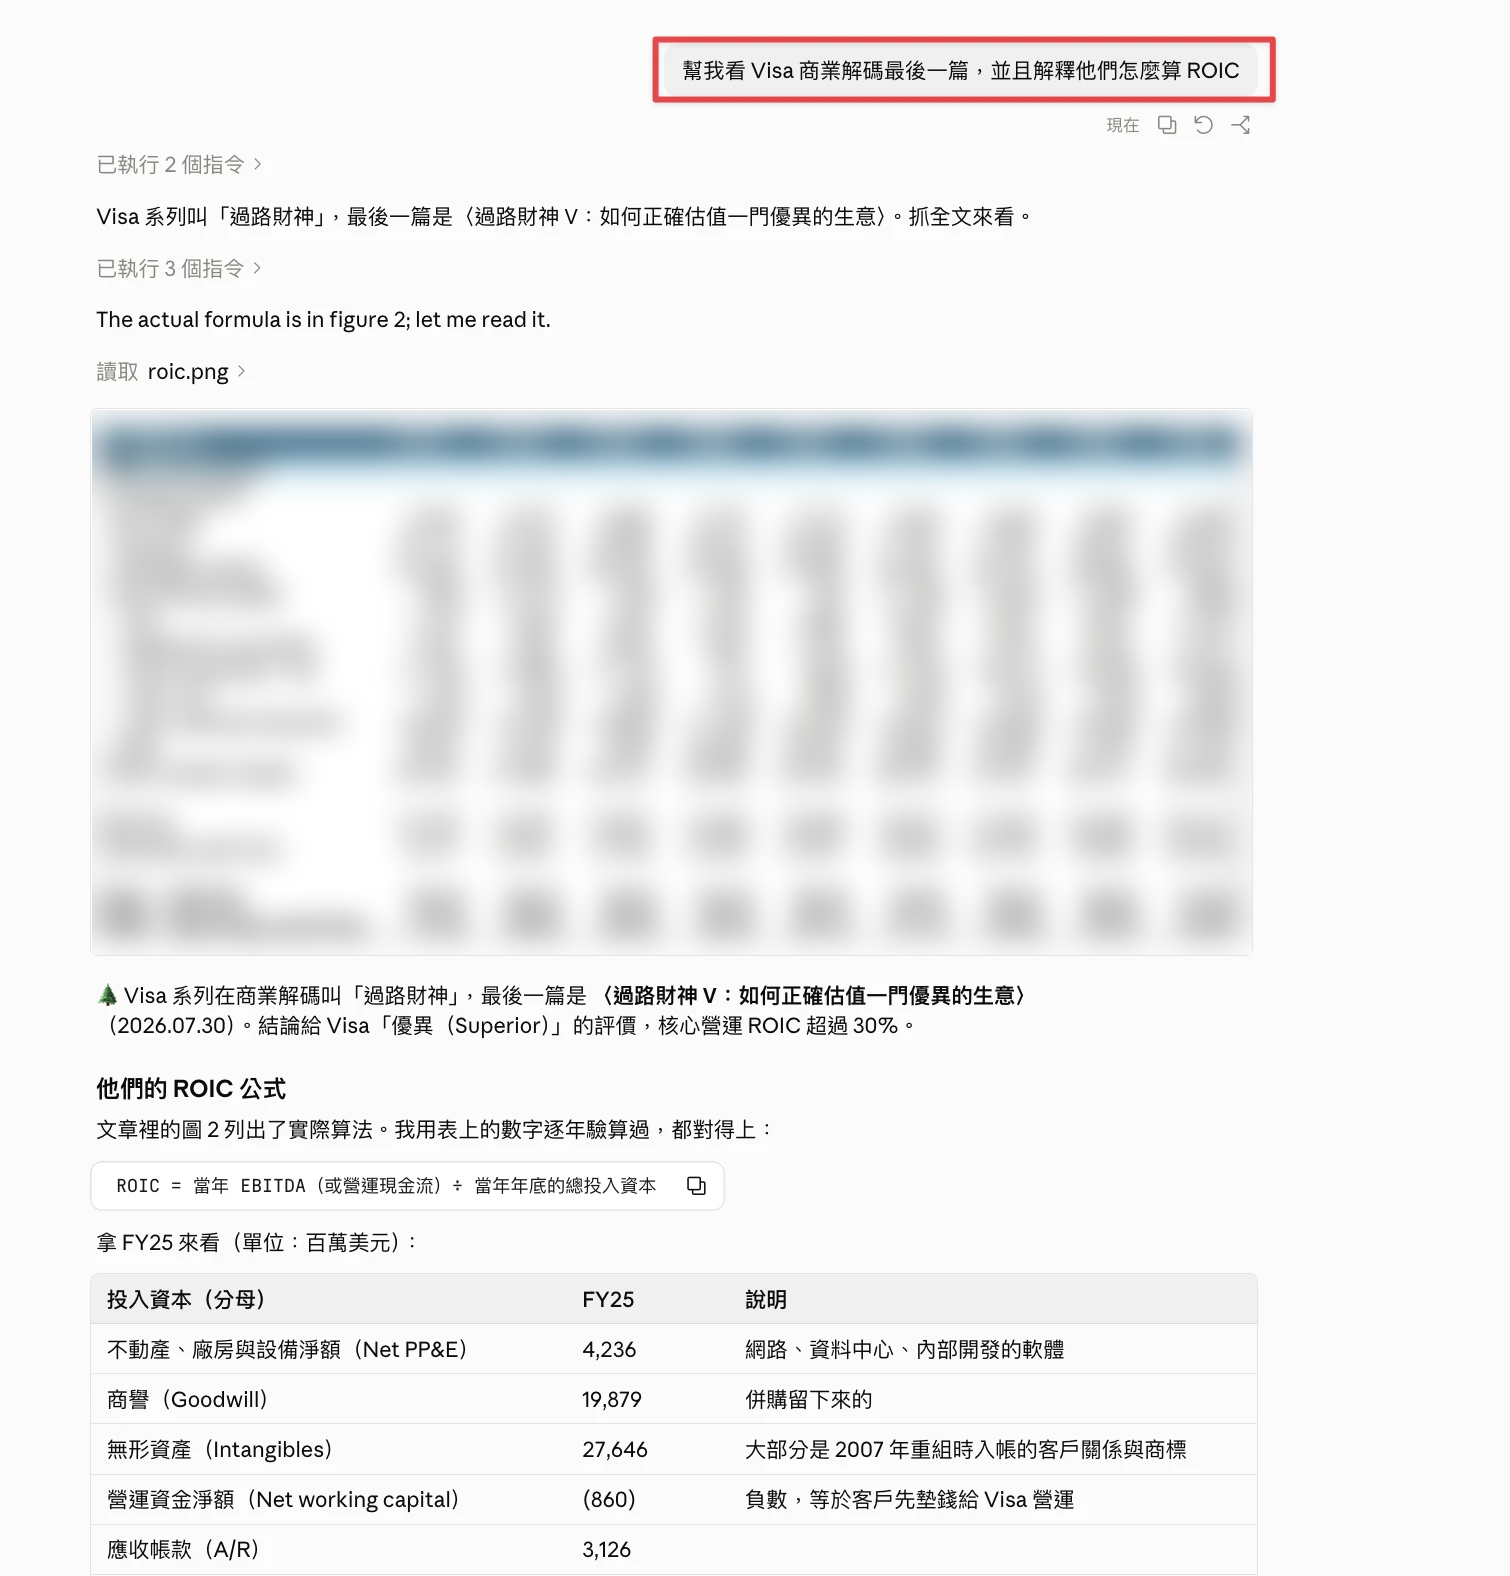
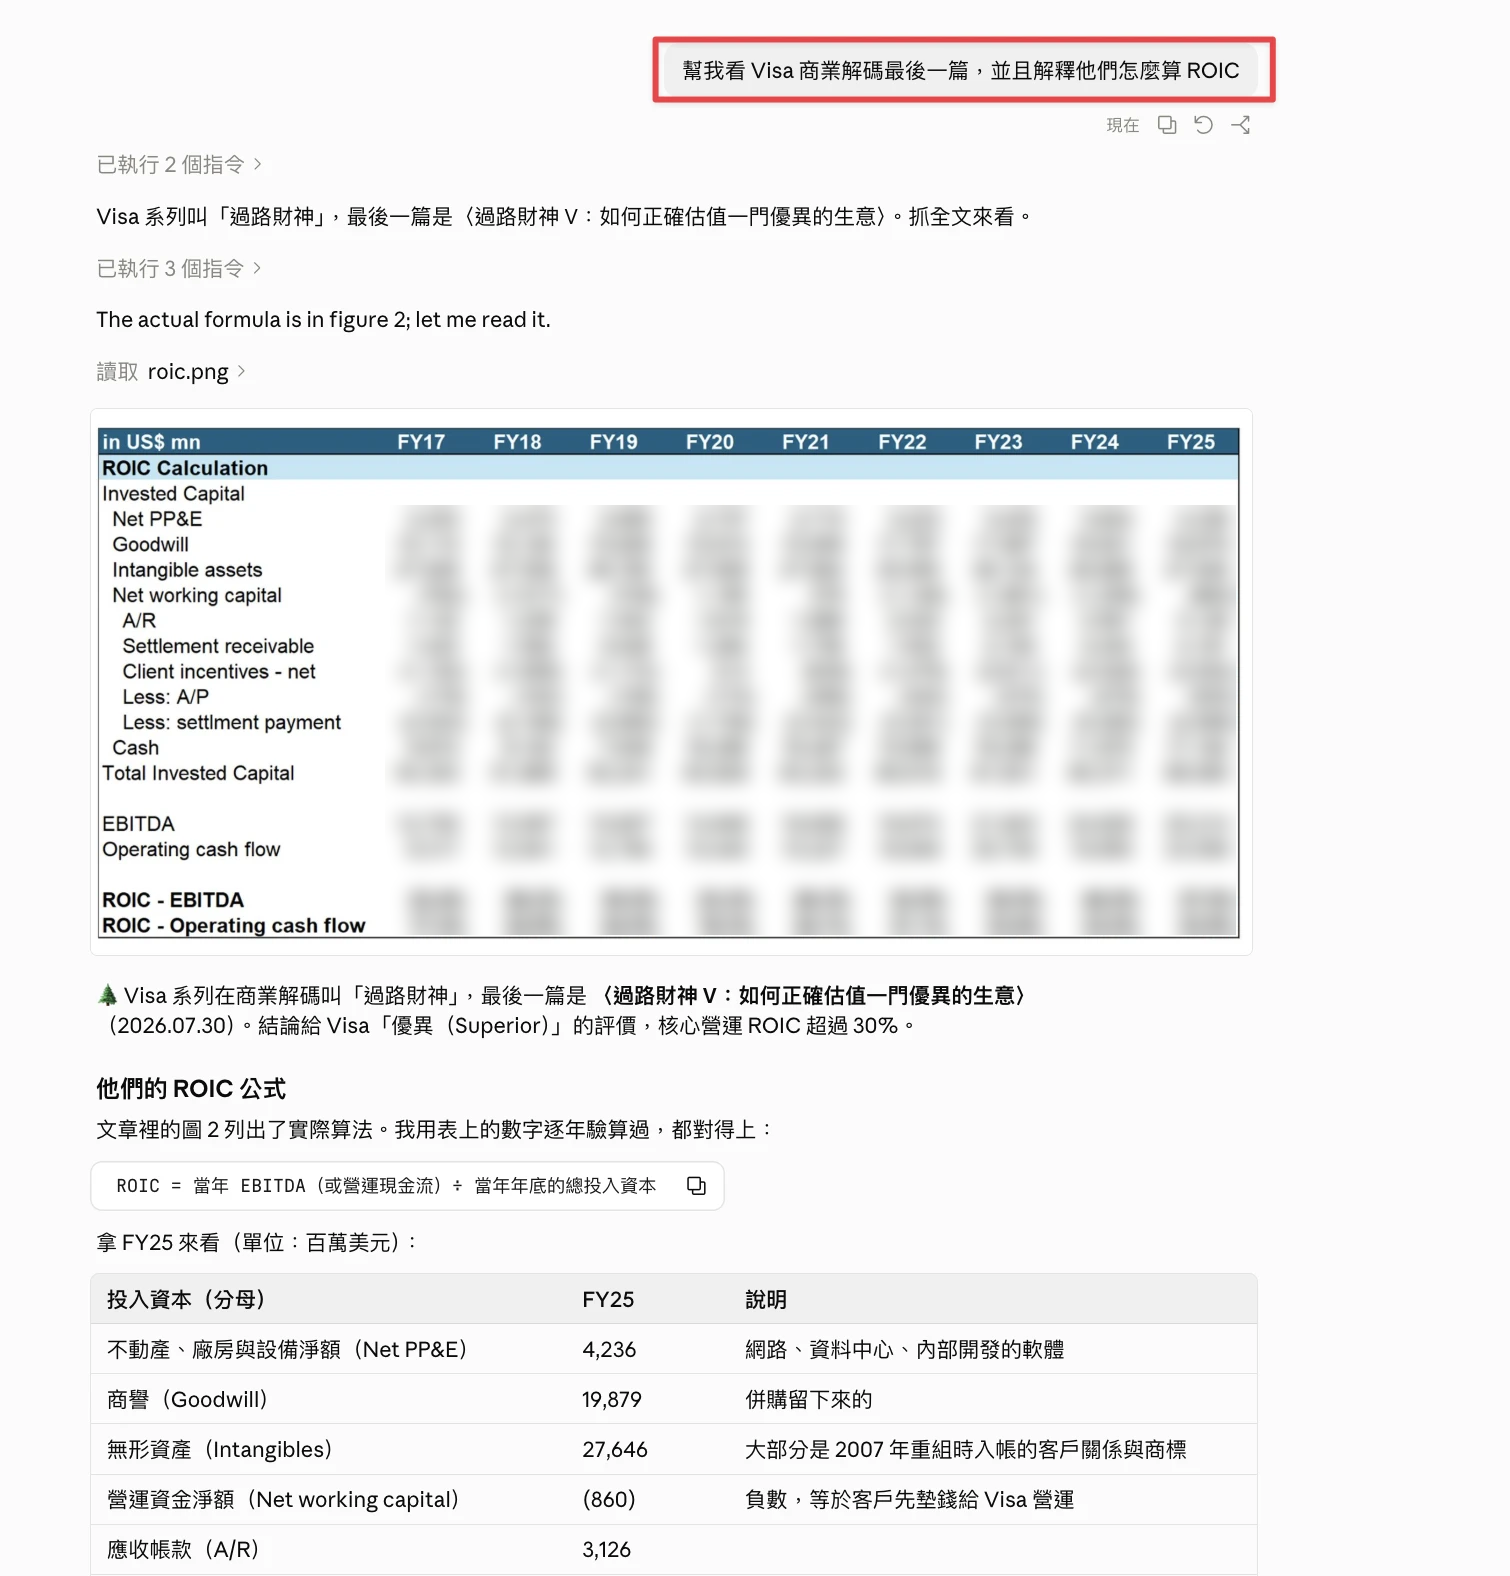
Blur only the numbers in the Visa ROIC example screenshot
Keep row labels and fiscal-year headers readable so the example looks real.

diff --git a/README.md b/README.md
@@ -199,7 +199,7 @@ args = ["--directory", "/Users/you/mannypro-mcp", "run", "mannypro-mcp"]
 
 <img src="docs/images/example-visa-roic.png" alt="在 Claude Code 問 Visa 商業解碼最後一篇怎麼算 ROIC 的範例" width="720">
 
-（截圖中原文的付費圖表已模糊處理。）
+（截圖中原文付費圖表的數字已模糊處理。）
 
 ### 找「哪些文章談到某個主題」
 
